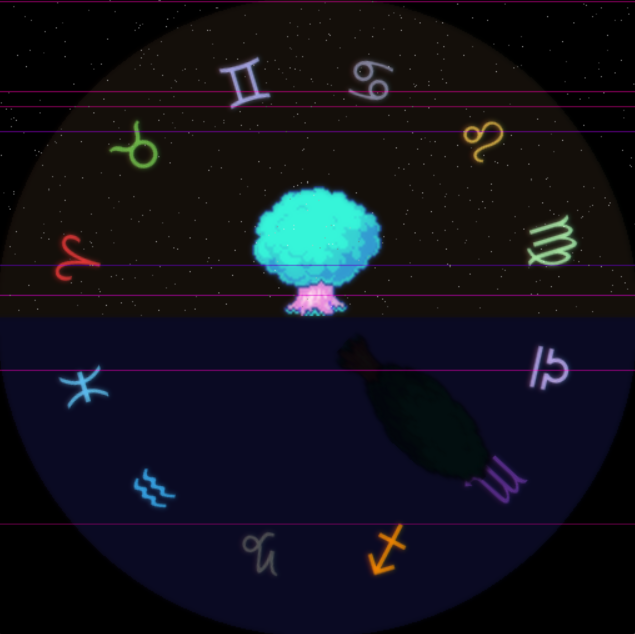
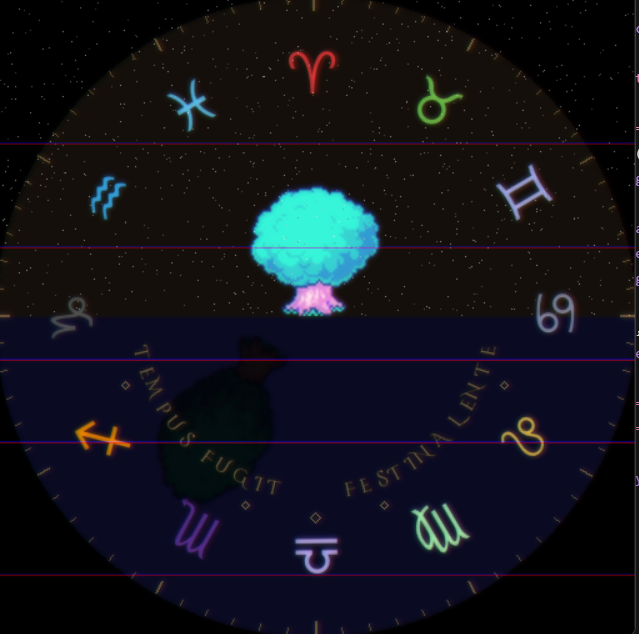
sigil inscriptions and ornaments

diff --git a/src/thresholdfloor/floor_sigil.py b/src/thresholdfloor/floor_sigil.py
@@ -442,6 +442,75 @@ def _draw_sigil_shadow(img, cx, cy, alt, az, size=82):
         )
     return img
 
+def _polar(cx, cy, radius, angle_deg):
+    theta = math.radians(angle_deg)
+    return (
+        cx + radius * -math.sin(theta),
+        cy + radius * math.cos(theta),
+    )
+
+
+def _draw_sigil_ticks(img, cx, cy, r, every=5, major_every=30):
+    draw = ImageDraw.Draw(img)
+
+    outer = r * 1.33
+    minor_len = r * 0.025
+    major_len = r * 0.055
+
+    for deg in range(0, 360, every):
+        is_major = deg % major_every == 0
+        length = major_len if is_major else minor_len
+        width = 2 if is_major else 1
+
+        x1, y1 = _polar(cx, cy, outer - length, deg)
+        x2, y2 = _polar(cx, cy, outer, deg)
+
+        draw.line(
+            (x1, y1, x2, y2),
+            fill=(150, 115, 70, 150),
+            width=width,
+        )
+
+    return img
+
+
+def _draw_diamond(img, cx, cy, radius, angle_deg, scale=4, fill=(210, 165, 90, 210)):
+    draw = ImageDraw.Draw(img)
+    x, y = _polar(cx, cy, radius, angle_deg)
+
+    pts = [
+        (x, y - scale),
+        (x + scale, y),
+        (x, y + scale),
+        (x - scale, y),
+    ]
+
+    draw.line(pts + [pts[0]], fill=fill, width=1)
+    return img
+
+
+def _draw_motto_brackets(img, cx, cy, r):
+    ornament_r = r * 0.84
+
+    # Bracket ornaments around TEMPUS FUGIT
+    _draw_diamond(img, cx, cy, ornament_r, 20, scale=3)
+    _draw_diamond(img, cx, cy, ornament_r, 70, scale=3)
+
+    # Bracket ornaments around FESTINA LENTE
+    _draw_diamond(img, cx, cy, ornament_r, 290, scale=3)
+    _draw_diamond(img, cx, cy, ornament_r, 340, scale=3)
+
+    # Small keel mark at bottom center
+    _draw_diamond(img, cx, cy, ornament_r, 0, scale=4)
+
+    return img
+
+
+def _draw_sigil_ornaments(img, cx, cy, size, r):
+    _draw_sigil_ticks(img, cx, cy, r)
+    _draw_motto_brackets(img, cx, cy, r)
+    return img
+
 def _draw_curved_text(
     img,
     cx,
@@ -548,7 +617,8 @@ def _draw_sigil_inscribe(img, cx, cy, size, r):
         motto_r = r * 0.72
         tracking_deg=1.8
         latin_take = "FESTINA LENTE"
-        latin_late = "SERIUS EST"
+        latin_late = "TEMPUS FUGIT"
+        #latin_late = "SERIUS EST"
         # Bottom-right-ish
         _draw_curved_text(
             img,
@@ -595,6 +665,7 @@ def _render_clock_sigil_frame(floor, observed_at, size=512):
         _draw_sigil_tree_axis(img, cx, cy, size=tree_size)
         font = _load_sigil_font(max(1, int(size * (36 / 400))))
         r = int((size // 2) * 0.75)
+        _draw_sigil_ornaments(img, cx, cy, size, r)
         alt, az = _draw_sigil_glyphs(img, floor, font, cx, cy, r, observed_at)
 
         _draw_sigil_shadow(img, cx, cy, alt, az, size=tree_size)

diff --git a/src/thresholdfloor/threshold_floor.py b/src/thresholdfloor/threshold_floor.py
@@ -514,18 +514,18 @@ class ThresholdFloor:
         """
         shadow = self.simulate_shadow(timestamp=timestamp)
         if shadow is None:
-            return None
+            return "Sine sole sileo"
 
         az = getattr(shadow, "shadow_azimuth_deg", None)
         if az is None:
-            return None
+            return "Sine sole sileo"
 
         az = float(az) % 360.0
         if 20.0 <= az <= 160.0:
             return "Take your time."
         if 200.0 <= az <= 350.0:
             return "It's later than you think."
-        return None
+        return "Sine sole sileo"
 
     def add_shadow_mark_from_simulation(
         self,